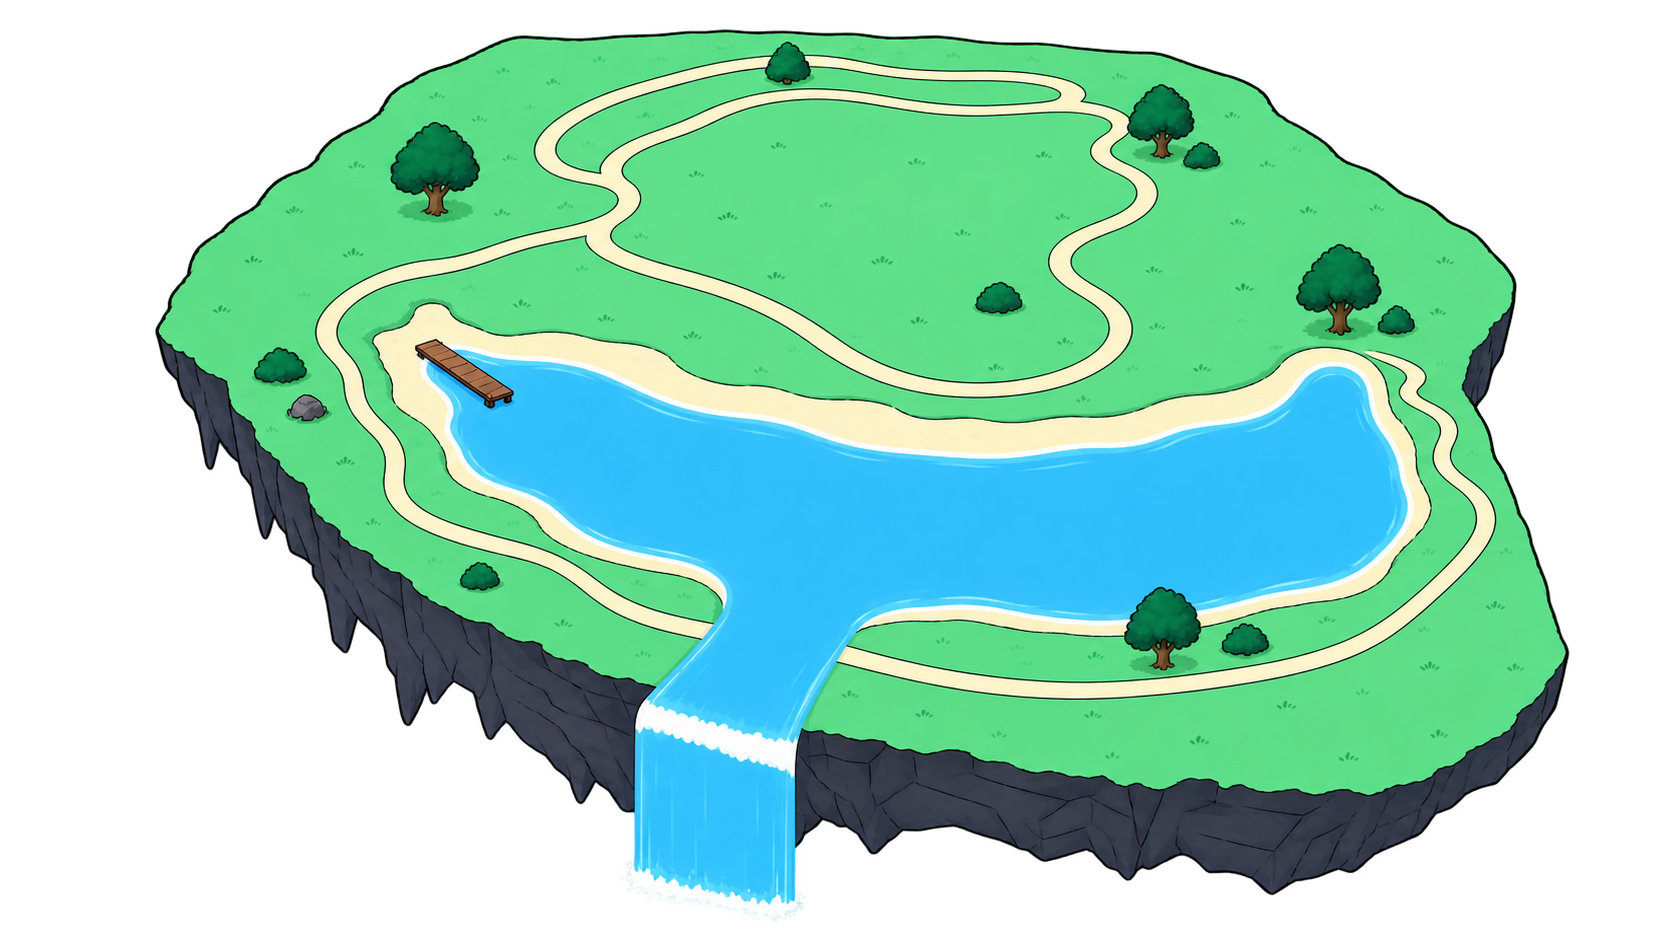
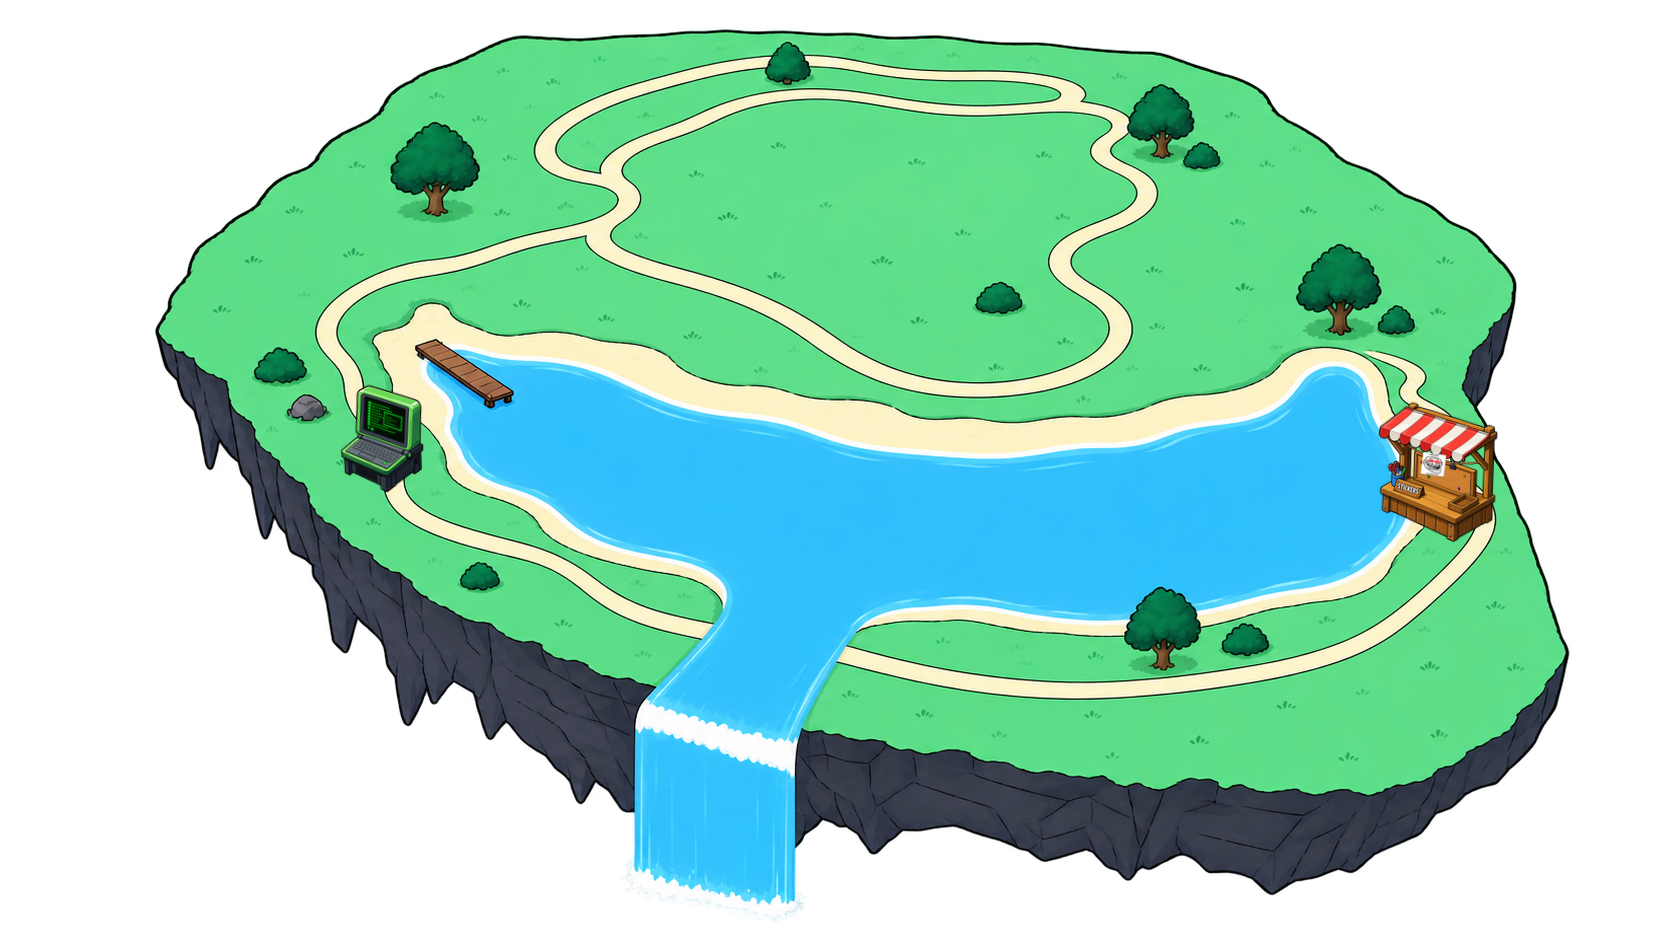
Bake the terminal and stickers landmarks into the land image itself
A live CSS-positioned object layer drifts against the land art under
pinch-zoom, since the browser can rescale/reflow the two independently.
Switching to an offline compositing step (wallpaper-src/bake-land2.js)
fixes that outright: both landmarks are now flattened directly into
trollrunner-island-land.png, so there's a single rigid image with nothing
left to drift.

Also fixes the stickers stall's corkboard: the "SIDELINED?" sticker was
sitting on it as a flat, axis-aligned rectangle, breaking the illusion
against the board's isometric tilt. It's now perspective-warped (3-point
affine from the board's actual corners, wallpaper-src/warp-sticker-onto-
corkboard.js) so it reads as pinned to the board's own plane, and both
landmarks got repositioned/rotated slightly to sit fully clear of the
rock edge and other props instead of overlapping them.

Removed the now-dead .island-obj rendering path and its containing-block
CSS fix, since nothing renders that way anymore.

Changed region(s): [[0.8086, 0.4315, 0.9019, 0.5855], [0.1866, 0.4006, 0.2799, 0.5239]]

diff --git a/world.html b/world.html
@@ -169,24 +169,6 @@
       pointer-events: none;
     }
     .island img { width: 100%; height: 100%; object-fit: contain; display: block; }
-    /* A landmark object standing on the island. Bottom-anchored on its own
-       l/t point (see the APPS array) so that point is where the art's own
-       ground contact sits, not the image's bounding-box corner — the source
-       PNGs are cropped tight with a contact shadow baked in, no fixed
-       aspect, so height alone (from `h`) drives the size and width follows
-       the art. */
-    .island-obj {
-      position: absolute; left: 0; top: 0;
-      transform: translate(-50%, -100%);
-      display: block; pointer-events: auto;
-      filter: drop-shadow(0 6px 10px #00000055);
-      transition: filter .2s var(--ease), transform .2s var(--ease);
-    }
-    .island-obj img { height: 100%; width: auto; display: block; }
-    .island-obj:hover, .island-obj:focus-visible {
-      filter: drop-shadow(0 10px 16px #00000070);
-      transform: translate(-50%, -100%) translateY(-3px);
-    }
 
     /* ================= BOOT ================= */
     .boot {
@@ -566,14 +548,7 @@
          so browser chrome appearing doesn't re-break it. */
       .shell { height: 100%; height: 100dvh; }
       .island {
-        /* relative, not static: .island-obj landmarks are positioned
-           absolutely against this box, which only works if it stays a
-           containing block at every breakpoint. left/top: auto resets the
-           base rule's 50%/54% fixed-layout offsets, which position:static
-           used to ignore outright but position:relative would otherwise
-           obey, shoving the whole box off toward the bottom-right. */
-        position: relative; left: auto; top: auto;
-        flex: 1 1 auto; min-height: 0;
+        position: static; flex: 1 1 auto; min-height: 0;
         width: 96vw; max-width: 96vw; margin: 6px auto 4px;
         aspect-ratio: auto; transform: none;
       }
@@ -632,8 +607,7 @@
     html.mobile-preview .app-name { font-size: 11px; }
     html.mobile-preview .shell { height: 100%; height: 100dvh; }
     html.mobile-preview .island {
-      position: relative; left: auto; top: auto;
-      flex: 1 1 auto; min-height: 0;
+      position: static; flex: 1 1 auto; min-height: 0;
       width: 96vw; max-width: 96vw; margin: 6px auto 4px;
       aspect-ratio: auto; transform: none;
     }
@@ -979,13 +953,15 @@
          entirely. The PNG has the studio-white backdrop already cut to
          alpha, so the starfield shows through behind the island.
 
-         This is the bare terrain layer only — no buildings baked in. The
-         individual landmarks (arcade, terminal, stickers booth, treasure
-         chest, ...) render as separate positioned pieces on top of it (see
-         the APPS l/t/h/img fields below), so each can be swapped or
-         animated independently instead of living inside one flat image. -->
-    <div class="island" id="island">
-      <img src="assets/images/wallpaper/trollrunner-island-land.png" alt="" aria-hidden="true">
+         Landmarks (terminal, stickers booth, ...) are composited directly
+         into this PNG offline (see wallpaper-src/bake-land2.js) rather than
+         rendered as separately positioned DOM elements — a live-positioned
+         layer drifts against the land art under pinch-zoom, since the
+         browser can rescale the two independently. One flat image, nothing
+         to drift. The APPS l/t/h/rot fields still record where each one
+         was baked, for redoing the bake when new art replaces old. -->
+    <div class="island" aria-hidden="true">
+      <img src="assets/images/wallpaper/trollrunner-island-land.png" alt="">
     </div>
 
 
@@ -1229,20 +1205,26 @@
        the rendered height as a % of the island box; width comes from the
        art's own aspect. Anchored bottom-center so `l`/`t` mark where the
        object actually touches the grass, not its bounding-box corner.
-       `landReady` gates which apps actually render on the island — most
-       still point at old mismatched-style placeholder art (see world.html
-       git history), so only entries with fresh art generated in this
-       style get drawn until the rest are replaced one at a time. */
+       `landReady` gates which apps still render this way at runtime.
+
+       Terminal and Stickers used to be the first two rendered live via the
+       loop below, but a live-positioned layer drifts against the land
+       image under pinch-zoom (the browser can rescale/reflow the two
+       independently), so their art is now baked directly into
+       trollrunner-island-land.png instead — one flat image, nothing to
+       drift. l/t/h/rot are kept here as the exact recipe that produced that
+       bake (see wallpaper-src/bake-land2.js) so the next landmark can reuse
+       the same process, not because anything still reads them live. */
     const APPS = [
       // back band
       { id: 'terminal', label: 'Terminal',  sub: 'terminal.trollrunner.net',
         href: 'https://terminal.trollrunner.net', external: true, color: '#30d158',
         icon: 'assets/images/icons/terminal.png', img: 'assets/images/wallpaper/obj-terminal.png',
-        l: 22, t: 54, h: 12, landReady: true },
+        l: 23, t: 53, h: 12, rot: -2 },
       { id: 'stickers', label: 'Stickers',  sub: 'stickers.trollrunner.net',
         href: 'https://stickers.trollrunner.net', external: true, color: '#ff9500',
         icon: 'assets/images/icons/stickers.png', img: 'assets/images/wallpaper/obj-stickers.png',
-        l: 88, t: 62, h: 15, landReady: true },
+        l: 86, t: 58, h: 15, rot: 2 },
       // mid band
       { id: 'pfp',      label: 'PFP Studio', sub: 'Build your troll', to: 'pfp.html',
         color: '#8fe36a', icon: 'assets/images/icons/pfp.png',
@@ -1379,30 +1361,6 @@
       name.textContent = a.label;
       el.append(tile, name);
       apps.appendChild(el);
-    }
-
-    /* ---------- island landmarks ----------
-       The puzzle-piece layer: apps with landReady art render as positioned
-       cutouts standing directly on trollrunner-island-land.png instead of
-       (or in addition to) their app-grid tile. Bottom-anchored at l/t so the
-       object's own ground contact point lands where it's plotted, and
-       z-indexed by t so lower-on-the-island objects draw in front of
-       farther-back ones, like any isometric scene. */
-    const island = $('island');
-    for (const a of APPS) {
-      if (!a.landReady || !a.img) continue;
-      const el = document.createElement('a');
-      el.className = 'island-obj';
-      el.dataset.app = a.id;
-      el.style.left = a.l + '%';
-      el.style.top = a.t + '%';
-      el.style.height = a.h + '%';
-      el.style.zIndex = String(Math.round(a.t * 10));
-      linkAttrs(el, a);
-      const img = document.createElement('img');
-      img.src = a.img; img.alt = a.label; img.loading = 'lazy';
-      el.appendChild(img);
-      island.appendChild(el);
     }
 
     /* ---------- dock ---------- */
